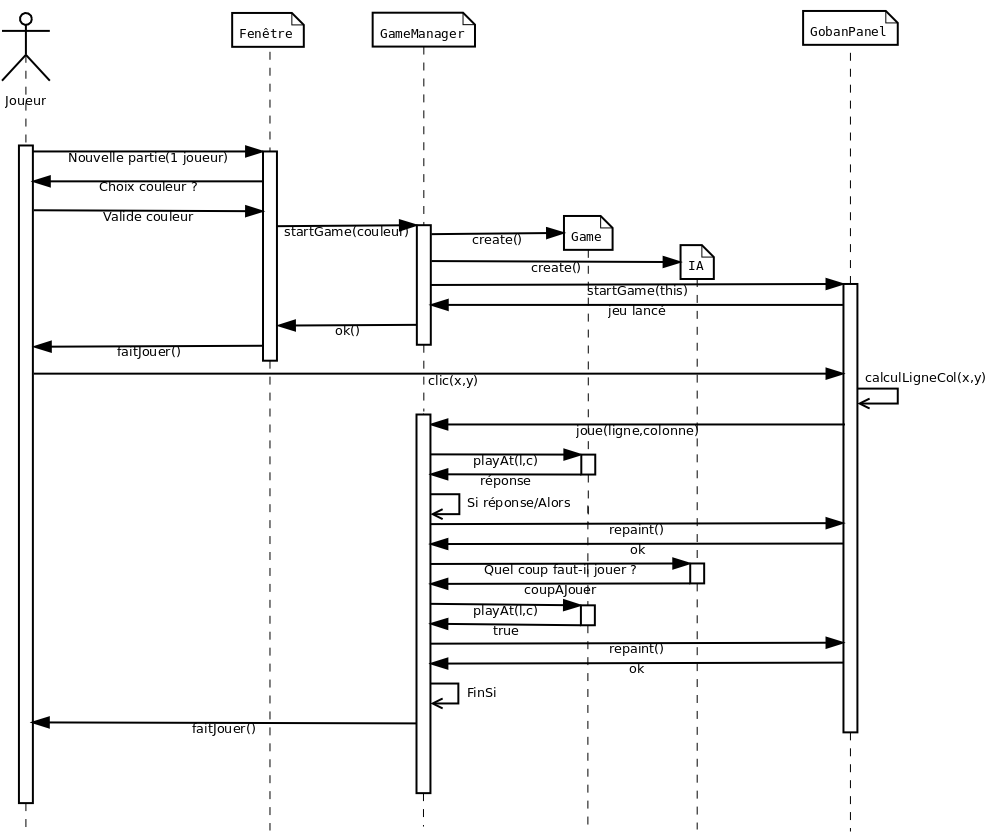
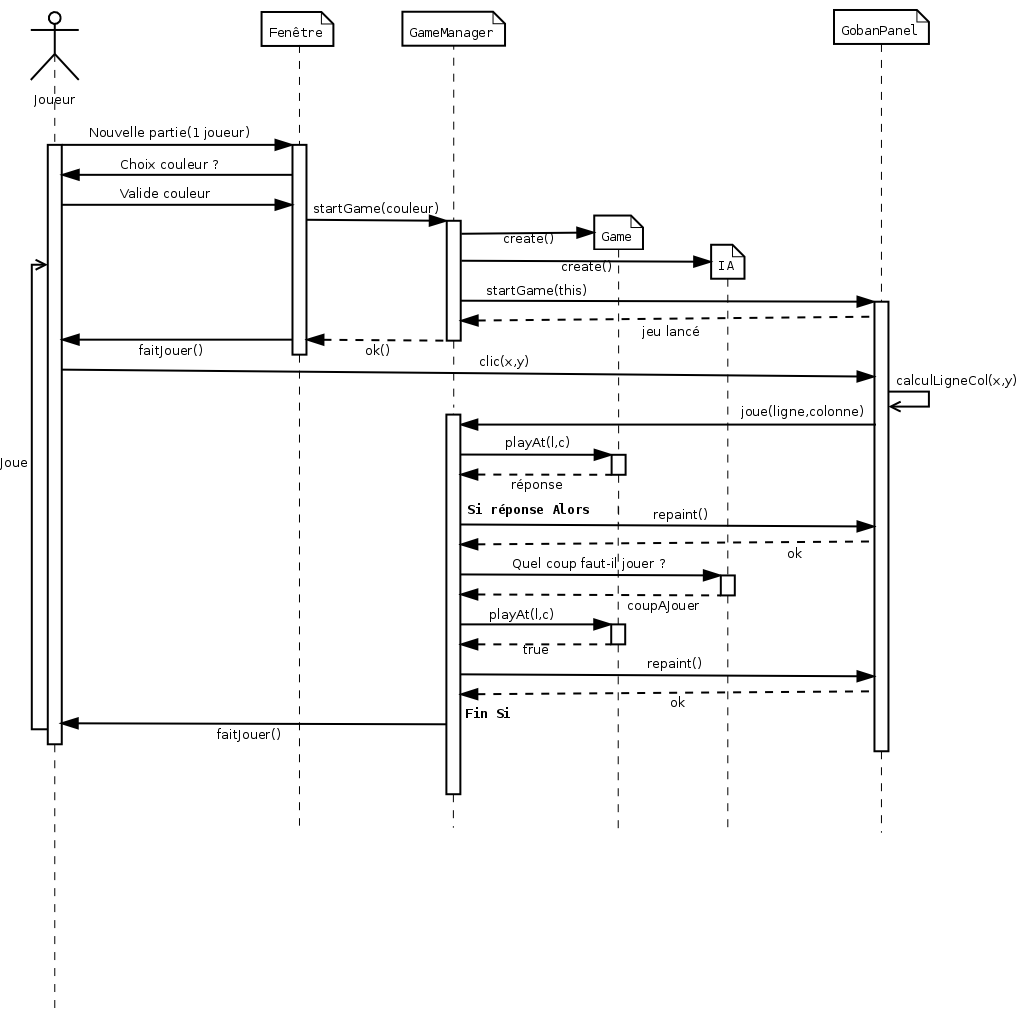
manque l'image des classes

diff --git a/groupeE/trunk/rapport/etude.tex b/groupeE/trunk/rapport/etude.tex
@@ -89,7 +89,7 @@
 			\end{figure}
 
 	\section{Algorithme $\alpha\beta$}
-
+	\label{alphab}
 		\subsection{Base}
 			Cet algorithme se base sur l'algorithme du min-max. La base du min-max consiste à jouer un certain nombre de coup, créer un arbre représentant les possibilités de jeu, donner un score aux états de jeu atteints après génération des coups, et trouver la branche la plus intéressante. Plus un score est haut, plus le jeu est avantageux pour nous. Le parcours de l'arbre est fait en profondeur.
 
@@ -138,5 +138,59 @@
 
 			\subsubsection{Arrêt de l'algorithme au plus tôt}
 				Nous avons ajouté une pondération de l'évaluation. Si on évalue une feuille qui est à un niveau inférieur au niveau maximum demandé, l'évaluation vaudra plus cher que si la feuille est à la profondeur maximum. Il vaut mieux jouer un très bon coup qui finit le jeu plus tôt qu'un très bon coup qui le fini plus tard.
+
+
+	\section{Fonctionnement de l'application}
+
+		\subsection{Cas d'utilisation}
+			Les cas d'utilisation sont présentés dans la figure \ref{use case}.
+
+			\begin{figure}[hbt]
+				\begin{center}
+					\includegraphics[width=0.7\textwidth]{./usecase.png}
+				\end{center}
+				\caption{Cas d'utilisation}
+				\label{use case}
+			\end{figure}
+
+		Les actions possibles ne sont pas foule, car nous avons principalement orienté notre travail sur l'intelligence artificielle de l'application.
+
+		\subsection{Diagrammes de séquence}
+
+			\subsubsection{Partie à un joueur}
+				Le déroulement d'une partie à un joueur --- contre l'ordinateur --- est décrit par la figure \ref{oneplayer}.
+
+				\begin{figure}[hbt]
+					\begin{center}
+						\includegraphics[width=1.2\textwidth]{./IA_1J.png}
+					\end{center}
+					\caption{Partie à un joueur}
+					\label{oneplayer}
+				\end{figure}
+
+
+				Nous pouvons y distinguer des grands éléments de notre application~: La fenêtre principale, le contrôleur --- GameManager, le plateau graphique --- GobanPanel, le jeu en lui même, et la partie IA, soit l'algorithme $\alpha\beta$. L'algorithme $\alpha\beta$ a été décrit dans la section \ref{alphab}. Le jeu en lui même sera décrit dans la section \ref{howgame}.
+
+			\subsubsection{Partie à deux joueurs}
+
+				La figure \ref{twoplayers} décrit le déroulement d'une partie à deux joueurs.
+
+				\begin{figure}[hbt]
+					\begin{center}
+						\includegraphics[width=1.2\textwidth]{./IA_2J.png}
+					\end{center}
+					\caption{Partie à deux joueurs}
+					\label{twoplayers}
+				\end{figure}
+
+
+		\subsection{Le jeu : la classe Game}
+
+			Le centre de l'application est ici la classe Game. Elle représente une partie d'atari go. Elle contient le goban courant --- état du plateau, un arbre de déroulement de la partie --- prévu pour pouvoir annuler un coup, des informations sur les groupes, leurs libertés, etc.
+
+			Le diagramme de classes décrit par la figure \ref{classes} montre l'agencement des différents élément composant un jeu.
+
+
+
 
 \end{document}
